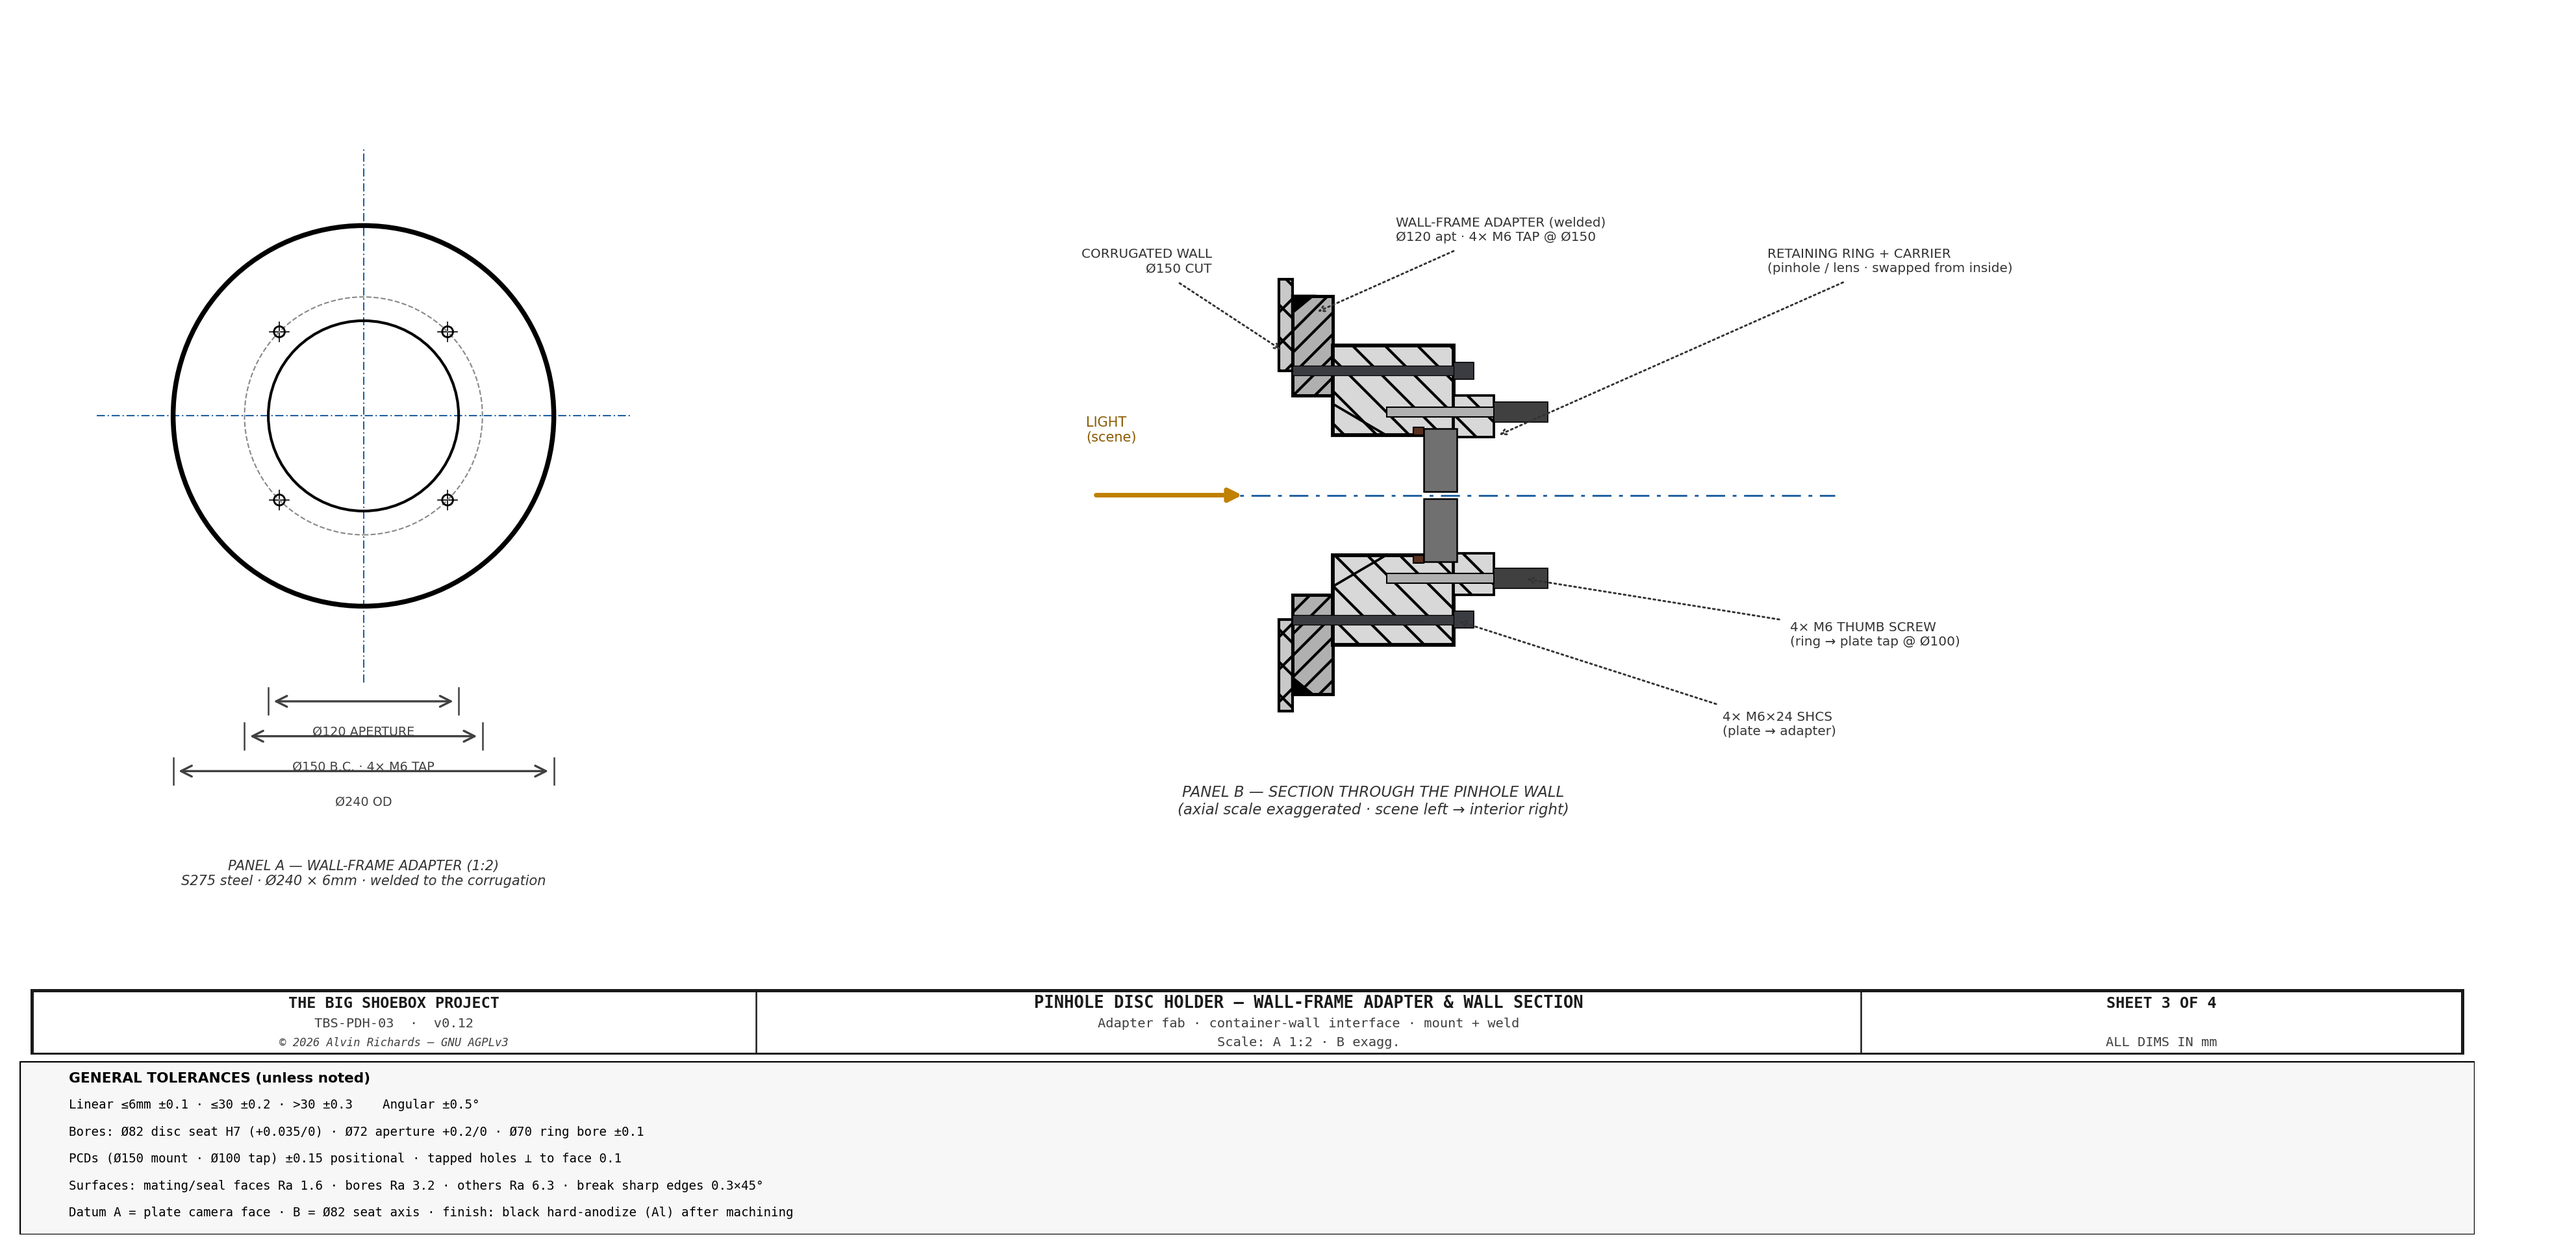
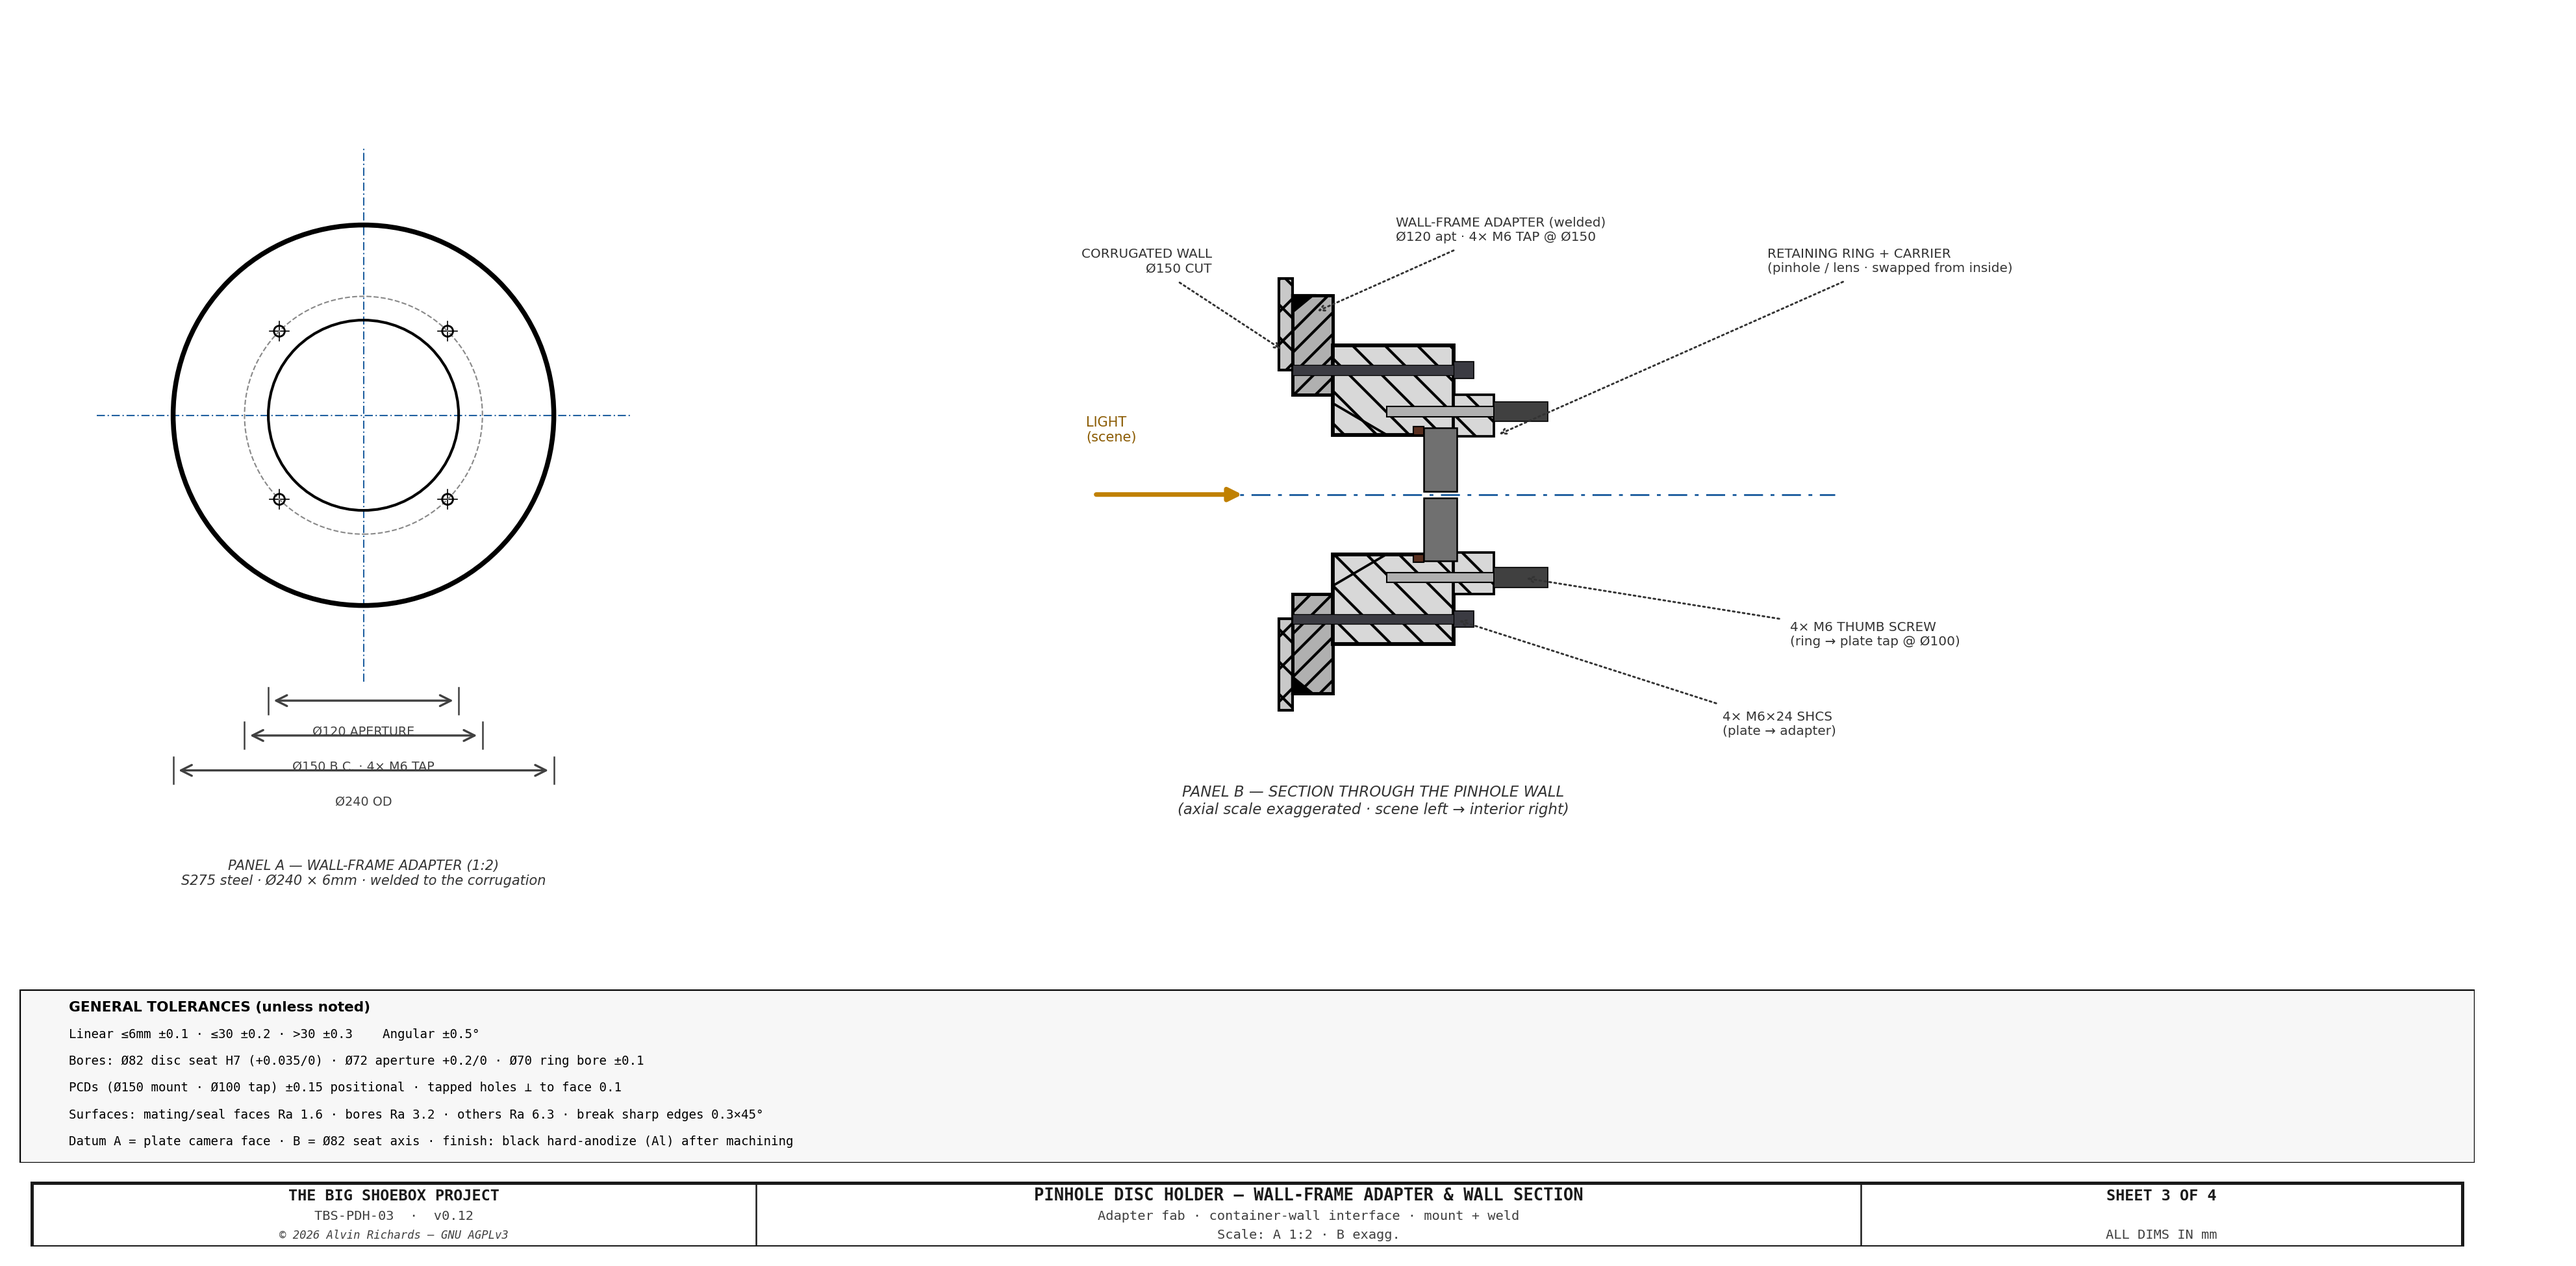
Disc holder Sheet 3: title block at the bottom, tolerance block above it

diff --git a/src/generators/generate_pinhole_disc_holder.py b/src/generators/generate_pinhole_disc_holder.py
@@ -298,8 +298,8 @@ def draw_sheet3():
     leader(axsec, xp0 + pt + sx(PDH_RING_T) + sx(4), ry - sy(PDH_TS_PCD / 2), xp0 + pt + 150, ry - rad + 34, f'{PDH_TS_N}× M{PDH_TS_D} THUMB SCREW\n(ring → plate tap @ Ø{PDH_TS_PCD})', fs=4.8, color=C_DIM, arrow_style='->', ha='left')
     axsec.text((xw0 + xp0) / 2 + 30, ry - rad - 46, 'PANEL B — SECTION THROUGH THE PINHOLE WALL\n(axial scale exaggerated · scene left → interior right)', ha='center', fontsize=5.5, style='italic', color='#333')
 
-    _tol_block(fig, [0.05, 0.035, 0.90, 0.135])
-    tb = fig.add_axes([0.05, 0.175, 0.90, 0.055]); tb.axis('off'); tb.set_xlim(0, 1); tb.set_ylim(0, 1)
+    _tol_block(fig, [0.05, 0.09, 0.90, 0.135])
+    tb = fig.add_axes([0.05, 0.025, 0.90, 0.055]); tb.axis('off'); tb.set_xlim(0, 1); tb.set_ylim(0, 1)
     title_block(tb, "SHEET 3 OF 4", drawing_title="PINHOLE DISC HOLDER — WALL-FRAME ADAPTER & WALL SECTION",
                 subtitle="Adapter fab · container-wall interface · mount + weld", scale_note="A 1:2 · B exagg.", doc_id="TBS-PDH-03", height=0.9)
     out = os.path.join(DIAGRAMS_DIR, 'pinhole-disc-holder-sheet3.png')

diff --git a/RELEASE.md b/RELEASE.md
@@ -30,7 +30,7 @@ file** — a release must not ship without a changelog entry:
 - **Disc-holder blueprint completed to buildable.** Added the container-wall interface and shop data the set was missing: the **wall-frame adapter** (Ø240×6 backing ring, 4× M6 into the corrugation, Ø120 aperture) drawn into `overview.skp` with its through-bolts; a new **Sheet 3** section through the container wall (corrugation → welded adapter → bolted plate → carrier/ring, with the light path); a new **Sheet 4** Copal/Compur lens board (real drilled bore + front-flange / rear-retaining-ring mount mechanism, ref: S.K. Grimes); and **CNC-shop tolerances** on the fabrication sheets. Moved the taps to Ø94 PCD (ring Ø110) so the Ø82 counterbore no longer crosses them. *overview/water/construction .skp re-send + Sketchfab re-upload still pending.*
 - **Copal #3 spec corrected + aperture opened to clear it.** Cross-checked the lens-board holes against [lensnotes.com](https://lensnotes.com/photography/lens-board/): Copal #3 is the standard **65.0mm** (matching Compur #3), not the 61.5mm taken from Intrepid. Since the front-plate aperture was Ø65 — exactly the #3 shutter barrel — grew it to **Ø72** (and coupled the neoprene washer bore to it, `PDH_WASHER_ID = PDH_APERTURE`, so it can't drift) so a Copal #3 barrel clears with margin. Cascaded through the constants, all 4 sheets (the tolerance block's bore/PCD literals are now constant f-exprs), `parts.py` (plate/washer/lens-board/CNC specs) and the report (fit table, tolerances, references). Confirmed against real Compur-shutter lens-board photos (front flange on the subject face, retaining ring threaded on from the back). Legibility passes: enlarged Sheet 1's Section A-A and drew its thumb screws to scale (Ø6 shaft into a ~10mm plate tap + Ø12 knurled head, now labeled), and enlarged Sheet 4's shutter-mount section ~50%. *disc-holder .skp re-send pending.*
 - **Thumb-screw edge distance fixed; ring widened.** The M6 taps at Ø94 sat only 6mm from the Ø82 counterbore wall — under the ~1.5×D minimum edge distance for an M6 tap. Moved the taps out to **Ø100** (9mm clearance) and widened the retaining ring OD **Ø110→Ø120** to house them with a ~10mm outer margin. Cascaded to the constants, all 4 sheets, `parts.py` (ring/CNC specs), master BOM and the report. Also drew the thumb screws into Sheet 3's wall section (they were missing — the ring's attachment to the plate now reads) and added a note on Sheet 4 explaining the front/rear lens *cells*. *disc-holder + overview .skp re-send pending.*
-- **Sheet cleanups.** Sheet 1's Section A-A duplicated Sheet 3's wall section (a superset), so Sheet 1 is now a single front-view general arrangement pointing to Sheet 3 for the section. On Sheet 4 the shutter mount is drawn as a proper lens cross-section: a straight lens barrel through the board hole with the front element at its left (subject) end and the rear element protruding past the opening on the film side, plus a barrel flange + rear retaining ring with clamp-force arrows; the glass groups are labeled "front/rear element".
+- **Sheet cleanups.** Sheet 1's Section A-A duplicated Sheet 3's wall section (a superset), so Sheet 1 is now a single front-view general arrangement pointing to Sheet 3 for the section. Sheet 3's title block sits at the very bottom of the sheet with the CNC tolerance block above it (was inverted). On Sheet 4 the shutter mount is drawn as a proper lens cross-section: a straight lens barrel through the board hole with the front element at its left (subject) end and the rear element protruding past the opening on the film side, plus a barrel flange + rear retaining ring with clamp-force arrows; the glass groups are labeled "front/rear element".
 - **Carrier standardized so the light seal actually clamps.** The washer seals the carrier's perimeter against the seat floor, but a thin carrier left the 6mm seat under-filled — a flat ring resting on the plate face couldn't reach it, so the washer never compressed. Every carrier is now a **Ø80 × 5mm** disc (`PDH_DISC_T`, derived to fill the seat + ~0.5mm proud): a pinhole carrier is a 5mm disc with the SS-302 shim over a central bore, the lens board is a 5mm disc drilled for the shutter, so the ring compresses the seal and seats every carrier identically. Cascaded to the constant, 2D sheets (Sheet 2 carrier, Sheet 3 section), the disc-holder model, `parts.py` and the report (§2/§3/§5). Retaining fasteners stay tool-free knurled thumb screws (confirmed).
 
 - **Dimension-label units standardized — every length carries `mm`.** Promoted the ad-hoc mm
